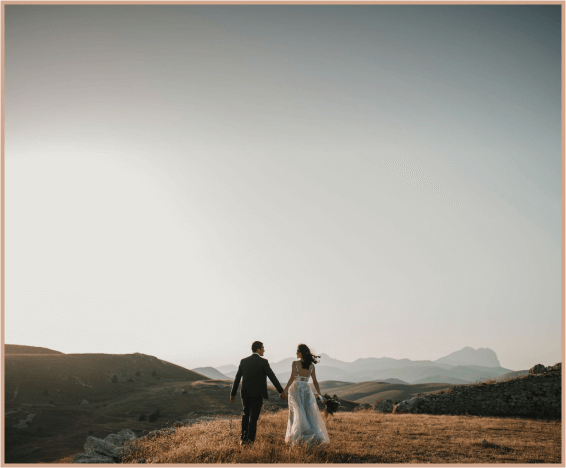
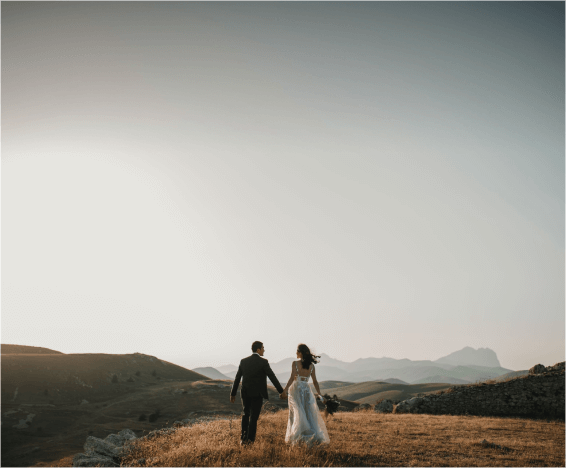
привет

Changed region(s): [[0.0, 0.0, 1.0, 1.0]]

diff --git a/ccs/start.css b/ccs/start.css
@@ -334,6 +334,8 @@ section {
   width: 567px;
   height: 467px;
   padding-top: 40px;
+  border: 4px solid #D0A68C;
+  
 }
 
 .main2 {
@@ -341,6 +343,7 @@ section {
   width: 567px;
   height: 467px;
   padding-top: 40px;
+  border: 4px solid #D0A68C;
 }
 
 .main3 {
@@ -348,6 +351,7 @@ section {
   width: 567px;
   height: 467px;
   padding-top: 40px;
+  border: 4px solid #D0A68C;
 }
 
 .main4 {
@@ -355,6 +359,7 @@ section {
   width: 567px;
   height: 467px;
   padding-top: 40px;
+  border: 4px solid #D0A68C;
 }
 
 .main-text {
@@ -556,7 +561,7 @@ li.footer-icon:hover {
 }
 
 /* Rechonser */
-
+  /* DECTON */
 @media (max-width: 1260px) {
   .blyr {
     width: 48%;
@@ -580,8 +585,10 @@ li.footer-icon:hover {
 }
 .blyr {
   left: 52%;
+  padding: 12% 0% 0% 8%;
 }
 .main1,.main2,.main3,.main4{
+  
   width: 100%;
   height: 467px;
 }
@@ -589,9 +596,139 @@ li.footer-icon:hover {
   transform: translate(100%, -149px);
   width: 50%;
 }
-
 .foto {
   height: 600px;
-  margin-top: -68px;
+  margin-top: 9px;
+}
+.header-item {
+  margin-left: 20px;
+}
+.header-nav {
+  gap: 30px;
+}
+.img_aside {
+ width: 50%;
+}
+}
+@media (max-width: 1050px) {
+  .header-nav  {
+    padding-left: 471px;
+  }
+  .header-nav a {
+    font-size: 18px;
+}
+.header-logo {
+  width: 34px;
+  height: 34px;
+  margin-bottom:0px;
+}
+}
+/* ainad mini */
+@media (max-width: 1000px) {
+  .container{
+    max-width: 720px;
+  }
+  .header-nav {
+    padding-left: 197px;
+}
+.wrapper {
+  gap: 0px;
+}
+.offer {
+  width: 50%;
+  margin-top: -24px;
+  margin-left: -16px;
+}
+.text2 {
+  width: 308px;
+}
+.foto {
+  height: 600px;
+  width: 50%;
+  margin-top: 22px;
+}
+.row_text2 {
+  display: none;
+}
+.row_text {
+  display: none;
+}
+.row_text1{
+  display: none;
+}
+.row_title {
+display: none;
+}
+.fiit {
+  position: absolute;
+  z-index:1;
+  margin: 0 auto;
+  max-width: 100%;
+  transform: translate(14%,491px);
+}
+.byss {
+  
+  transform: translate(1%,571px);
+}
+.blyr {
+  left: 35%;
+  padding: 12% 0% 0% 8%;
+  width: 70%;
+  bottom: -95%;
+}
+.about {
+  padding-top: 774px;
+}
+.main1 {
+  background-image: url(../img/ipad1.png);
+  height: 300px;
+}
+.main2 {
+  background-image: url(../img/ipad2.png);
+  height: 300px;
+}
+.main3 {
+  background-image: url(../img/ipad3.png);
+  height: 300px;
+}
+.main4 {
+  background-image: url(../img/ipad4.png);
+  height: 300px;
+}
+.artical-title {
+  font-size: 60px;
+  margin-bottom: -11px;
+}
+.main_grid {
+  gap: 15px 8px;
+  margin-top: -100px;
+}
+.main_flex {
+  display: flex;
+  flex-direction: column;
+  gap: 57px;
+}
+.forwa {
+  margin-top: 3px;
+  width: 65%;
+  margin-left: 113px;
+}
+.bg{
+ margin: 0 auto;
+}
+.img_aside {
+  width: 79%;
+  margin: 0 auto;
+}
+.banner {
+  display: flex;
+  gap: 20px;
+  padding-top: 21px;
+  width: 130%;
+  margin-left:-157px;
+}
+.flex_banner {
+gap: 150px;
+margin-right: 30px;
 }
 }
